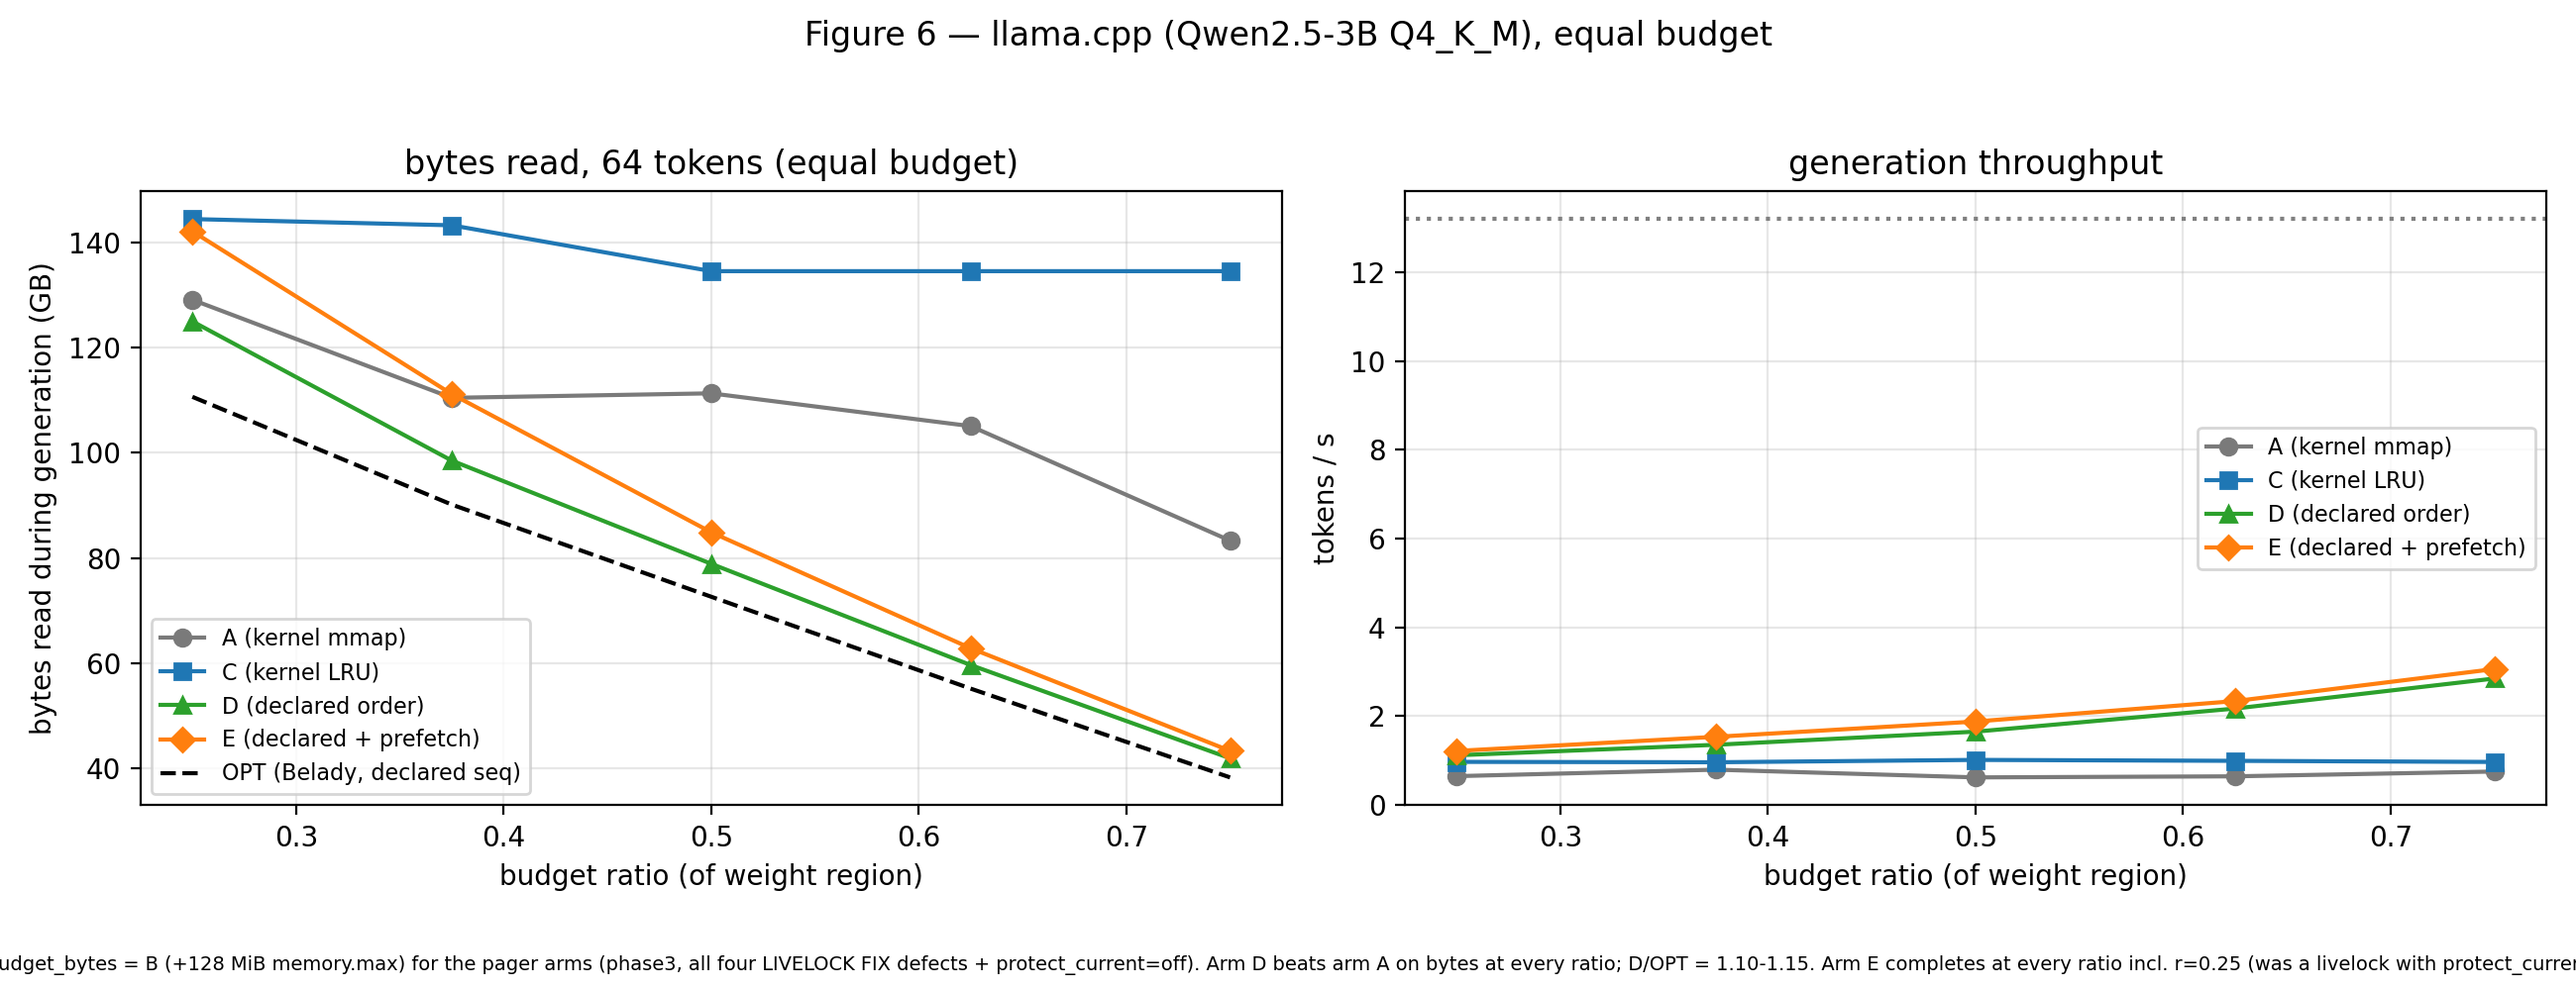
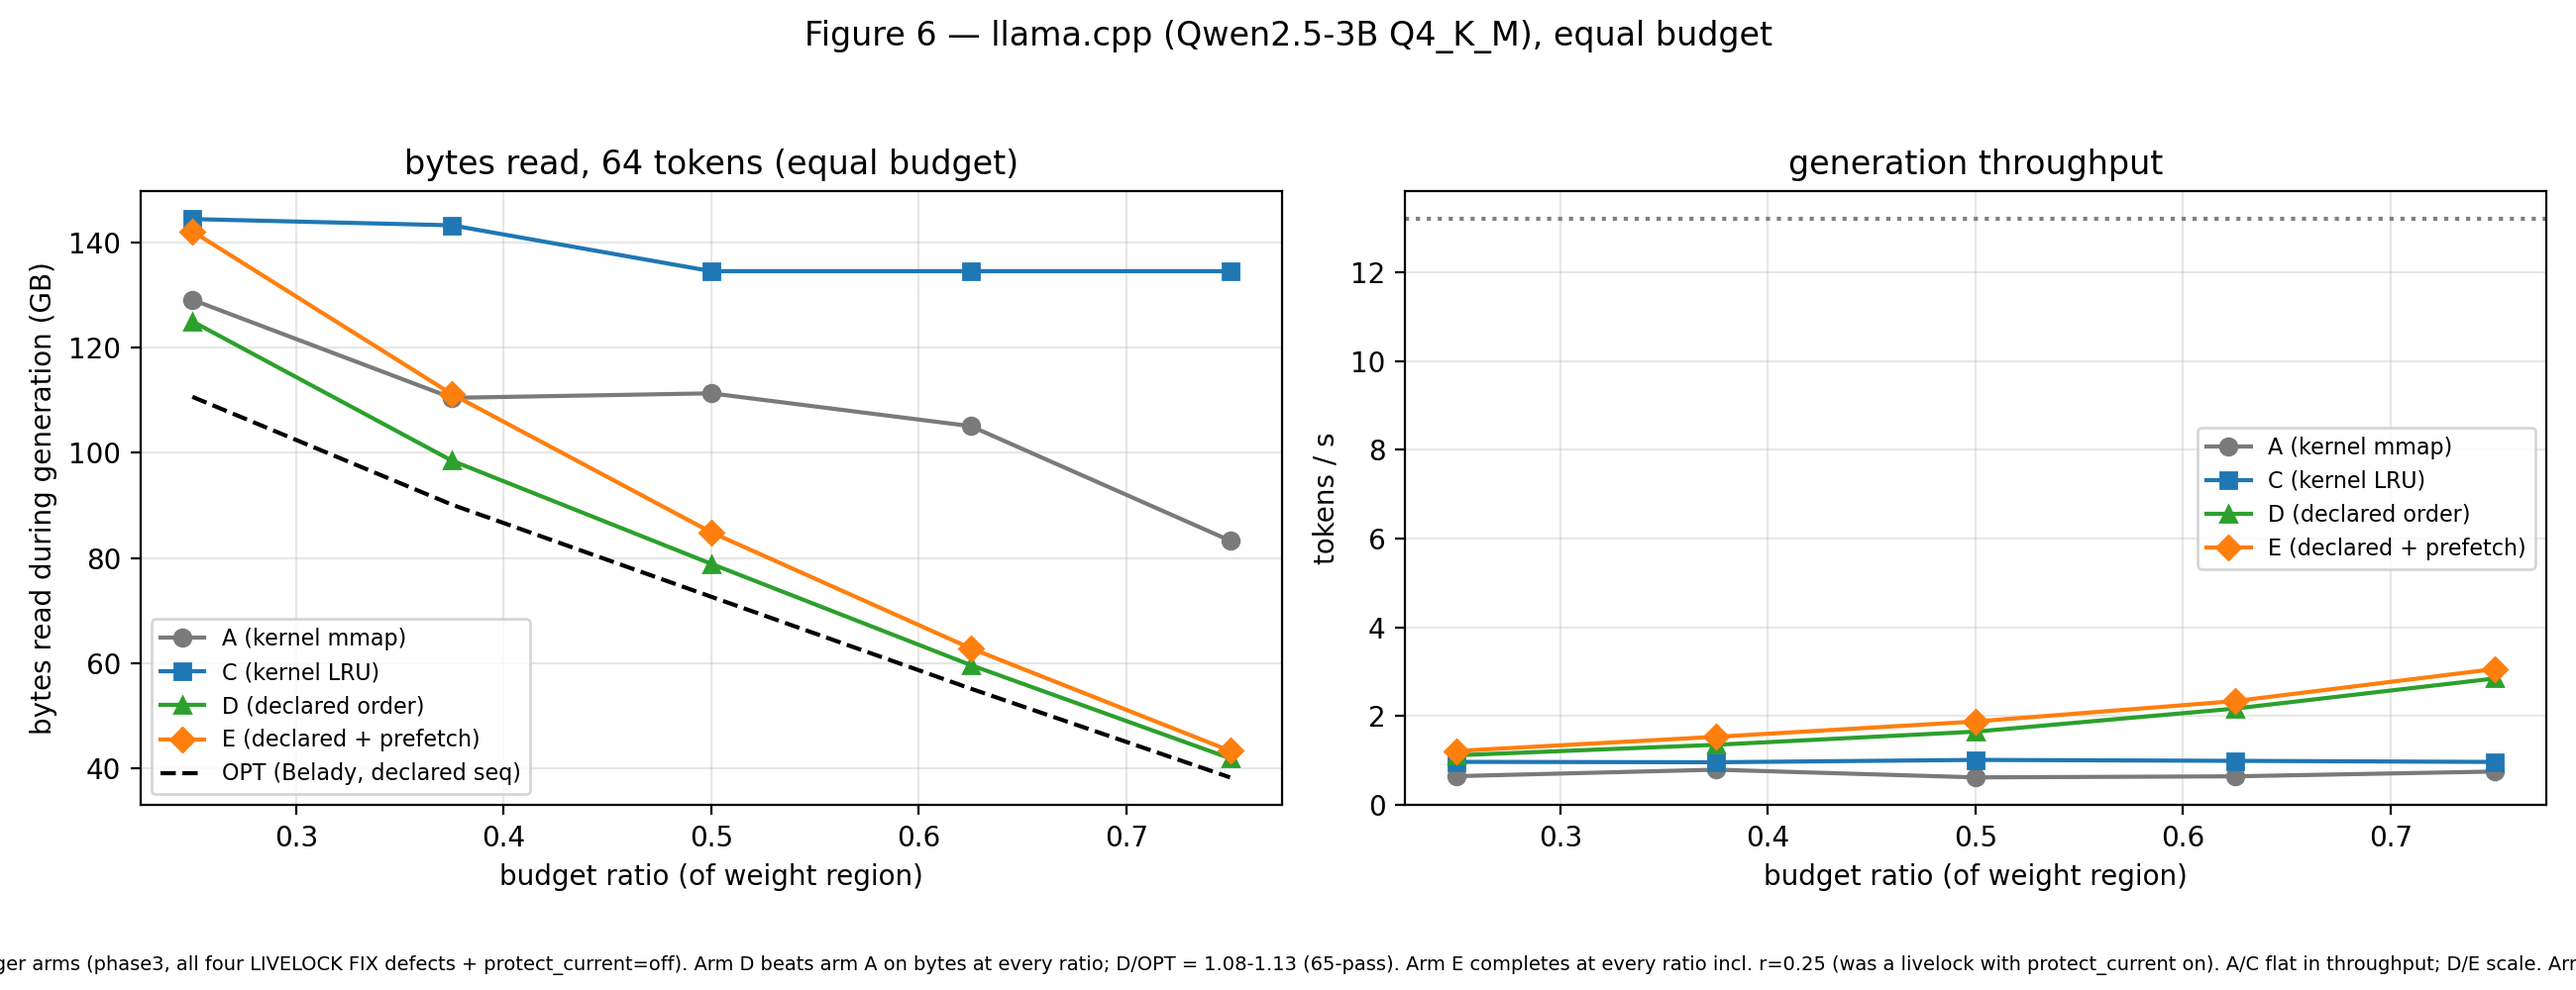
LIVELOCK FIX Phase 5: verification + summary
Figure 6 PNG caption said D/OPT 1.10-1.15 (written from the 64-pass analyze
output before the 65-pass correction); fixed to 1.08-1.13 and regenerated.
Figure 7 caption + Claim 9 caveat + WRITEUP point 8 now state that arm A
(Phase 1) and arms C/D/E (Phase 3) are different runs on a ~faster session,
so the A-vs-C absolute throughput gap is not like-for-like -- only each
arm's flatness is robust.

Verification: T-1..T-7 PASS (eager reconcile via test_correctness.c
reconcile_interval=1); test_policy PASS (both signal modes); real-model
correctness gate byte-identical with the flipped default; WP1 1.2
learned-policy gate PASS byte-identical 3/3. Citation scan clean.

LIVELOCK_SUMMARY.md: the four defects, what moved, what did not, gates.

Claude-Session: https://claude.ai/code/session_01UoPcjDcSS3Dg4NQrDHTy7c

Changed region(s): [[0.0, 0.961, 1.0, 0.992]]

diff --git a/results/overnight/make_wp3.py b/results/overnight/make_wp3.py
@@ -592,8 +592,9 @@ def figure6_final():
     fig.suptitle('Figure 6 — llama.cpp (Qwen2.5-3B Q4_K_M), equal budget', fontsize=12)
     fig.text(0.5, 0.02, 'memory.max = B for arm A (phase1); budget_bytes = B (+128 MiB memory.max) for the pager '
              'arms (phase3, all four LIVELOCK FIX defects + protect_current=off). Arm D beats arm A on bytes at '
-             'every ratio; D/OPT = 1.10-1.15. Arm E completes at every ratio incl. r=0.25 (was a livelock with '
-             'protect_current on). A/C flat in throughput; D/E scale.', ha='center', fontsize=7)
+             'every ratio; D/OPT = 1.08-1.13 (65-pass). Arm E completes at every ratio incl. r=0.25 (was a livelock '
+             'with protect_current on). A/C flat in throughput; D/E scale. Arm A is a different (Phase 1) run than '
+             'C/D/E; compare shapes, not A-vs-C absolute throughput.', ha='center', fontsize=7)
     fig.tight_layout(rect=[0,0.07,1,0.94])
     fig.savefig(f'{OUT}/figure6_llamacpp.png', dpi=200); plt.close(fig)
     with open(f'{OUT}/figure6_llamacpp.csv','w',newline='') as f:
@@ -628,9 +629,9 @@ def figure7():
                  fontsize=11)
     ax.grid(alpha=0.3); ax.legend(fontsize=9)
     fig.text(0.5, 0.01, 'Qwen2.5-3B Q4_K_M, CPU, 64 tokens, n=3, equal budget. Arm A: phase1; arms C/D/E: '
-             'phase3 (LIVELOCK FIX, protect_current=off). Arms A and C are horizontal (0.6-1.0 t/s at every '
-             'budget); arm D rises 1.12 -> 2.85 t/s (2.5x). Arm A absolute values are reclaim-noisy; the flat '
-             'trend is the robust result.', ha='center', fontsize=7)
+             'phase3 (LIVELOCK FIX, protect_current=off) -- a different run, faster machine, so the A-vs-C '
+             'absolute gap is not like-for-like; each arm\'s flatness is the robust part. Arms A and C horizontal '
+             '(~0.7 / ~1.0 t/s); arm D rises 1.12 -> 2.85 t/s (2.5x).', ha='center', fontsize=7)
     fig.tight_layout(rect=[0,0.06,1,0.96])
     fig.savefig(f'{OUT}/figure7_throughput_scaling.png', dpi=200); plt.close(fig)
     with open(f'{OUT}/figure7_throughput_scaling.csv','w',newline='') as f:

diff --git a/results/livelock/LIVELOCK_SUMMARY.md b/results/livelock/LIVELOCK_SUMMARY.md
@@ -1,0 +1,88 @@
+# LIVELOCK FIX — session summary
+
+**Premise.** A source review found three defects, one in the next-use distance
+function. The spec fixed them and re-measured everything they touch. During
+Phase 0 a fourth defect surfaced (a silent node-name mismatch); the user
+authorised a fourth fix and a guarding assertion.
+
+## The four defects and their fixes
+
+| # | Where | Defect | Fix |
+|---|---|---|---|
+| 1 | `policy.c:lo_declared_dist()` | scanned `for d = 1..seq_len`, so the actively-consumed chunk `seq[pos]` matched only at `d == seq_len` — max distance, top eviction victim | scan origin is **signal-mode-aware**: `d` starts at **0** on the pre-consumption path (`seq[pos]` → distance 0), stays at **1** on the post-consumption path (byte-for-byte the old loop). `policy_set_signal_mode()`; unit tests for both modes |
+| 2 | `wp2_gen.cpp:eval_cb()` | acted on the **post**-compute callback pass, so the declared cursor advanced only after layer N's weights were already read — lagged the real access by a full layer | act on the **pre**-compute pass (`if (!ask) return true;`) |
+| 3 | `prefetch_pool.c` | a declined prefetch was immediately re-enqueued and re-declined — a busy loop (`stat_prefetch_declined` → 2104 while `stat_prefetches` froze at 77) | on decline, `chunk_t.decline_until_ns = now + 100 ms`; `prefetch_pool_top_up` skips candidates still in backoff |
+| 4 | `wp2_gen.cpp:eval_cb()` | matched the graph node `"inp_embd"`; llama.cpp names the embedding output `"embd"`, so `token_embd` (chunk 2, 175 MiB) received **zero** consumption signals | match `"embd"`; `residctl_llama.c:notify_audit_maybe()` aborts at startup if any workload-declared chunk gets 0 signals in the first 2 decode passes |
+
+## What the fixes changed
+
+- **The arm-E "livelock" is fixed** — not avoided. It had been mislabelled three
+  times (WP2: "over-constrained budget"; final Phase 3: "hard deadlock / orphaned
+  `FETCHING` slot"; cleanup: "a livelock from two individually-correct
+  mechanisms, mitigate by config"). The real cause was Defect 1 ranking the
+  in-use chunk as coldest, fed by Defect 2's lagging cursor with Defect 4's
+  unsignalled `token_embd`. **Phase 3b**: the exact prior-livelock config
+  (`--prefetch-retention pinned --protect-current on`, r ∈ {0.25, 0.375}) now
+  completes in **~44–54 s**, both reps — it previously ran `rc=124` for ~6 h at
+  ~90× I/O amplification.
+- **`stat_prefetch_declined` 2104 → 0–20**; `stat_fetching_timeout = 0` on all
+  45 Phase 3 runs.
+- **`residctl_llama.c` `protect_current` default flips to `off`** (spec
+  amendment A-14). The sole reason it was `on` (cleanup: "off ⇒ arm D +67–78 %")
+  was a Defect-2/Defect-4 artifact. **Phase 3c**: with the fixes, `protect_current`
+  on vs off moves arm D by ≤ 1.8 % at every ratio. Both paths now default `off`.
+
+## What did NOT change
+
+- **The synthetic path** (`replay_main`, `--consumption-signal all-threads`):
+  every `layer_order_declared` cell byte-identical to `results/final/phase2_*.csv`
+  (Phase 2). The post-mode `d0 = 1` origin is a no-op refactor.
+- **Arm D byte efficiency on the real model**: 125.0 / 98.5 / 78.9 / 59.7 /
+  41.9 GB — within noise of the pre-fix protect-on baseline. The fixes' value is
+  the arm-E livelock fix, the declined-prefetch collapse, and the
+  consumption-signal correctness audit — not arm-D bytes.
+- **`layer_order_learned`, `lru`, `select_victim`, `INT64_MAX` semantics** —
+  untouched (spec constraint). WP1 §1.2 gate: `layer_order_learned` reproduces
+  Campaign 12 Phase D exactly (57 / 49 / 7,650,410,496, 3/3 reps).
+
+## Numbers that moved (65-pass OPT, decimal GB)
+
+| quantity | was | now |
+|---|---|---|
+| arm D real-model bytes, r=0.25…0.75 | 126.1 / 98.4 / 79.3 / 60.6 / 43.4 | 125.0 / 98.5 / 78.9 / 59.7 / 41.9 |
+| D/OPT, real model | 1.09–1.14 | **1.08–1.13** |
+| D/A, real model | 0.98 / 0.89 / 0.71 / 0.58 / 0.52 | 0.97 / 0.89 / 0.71 / 0.57 / 0.50 |
+| arm D throughput | 0.91 → 1.95 t/s (2.1×) | **1.12 → 2.85 t/s (2.5×, monotone)** |
+| arm C throughput | ~0.8 t/s | ~1.0 t/s (byte-identical thrashing; machine variance) |
+| arm E at r ≤ 0.375 | livelocks (protect on) / +37–43 % bytes (protect off) | completes; +13–14 % bytes (latency win) |
+
+## Verification (Phase 5)
+
+- **T-1..T-7** (eager reconcile — `test_correctness.c` hardcodes
+  `reconcile_interval = 1`, A-3): PASS, `mismatches = 0`, after the code changes
+  and after the `protect_current` default flip.
+- **`test_policy`**: PASS — declared next-use vs naive Belady scan agrees in
+  both signal modes; protect-on/off both modes ok.
+- **Real-model correctness gate**: mmap vs residctl, 32 tokens, byte-identical —
+  both with `--protect-current off` explicit (Phase 3) and with the flipped
+  default (Phase 4 re-gate).
+- **WP1 §1.2 learned-policy gate**: PASS, byte-identical, 3/3 reps.
+- **Citations**: `WRITEUP_PACKAGE.md` / `CLAIMS.md` / `PROJECT_STATE.md` file
+  references resolve (spike-report refs live in `/root/spike/`, as before).
+
+## Commits
+
+`01a0ca1`, `cfa4907` (Phase 0) · `bb20f34` (Phase 0b) · `cfacb64` (Phase 1) ·
+`ddffaad` (Phase 2) · `96b1c28` (Phase 3) · `c6f4e80` (Phase 4) · Phase 5 (this
+summary). All on `origin/main`, `github.com/GarvitAggarwal178/residctl`.
+
+## Artifacts
+
+- `results/livelock/phase0_cursor_diagnostic.md`, `BLOCKERS.md`
+- `results/livelock/phase1_fixes.md`
+- `results/livelock/phase2_synthetic.md`
+- `results/livelock/phase3_real_model.md` (+ `.csv`, `phase3b_arm_e_protect_on.csv`,
+  `phase3c_arm_d_protect_on.csv`, policy traces, correctness gate)
+- `results/livelock/phase4_propagation.md`
+- `docs/design-history.md` — consumption-signal timing decision + the road not taken
+- Spec amendment **A-14** in `PROJECT_STATE.md` §5

diff --git a/results/overnight/CLAIMS.md b/results/overnight/CLAIMS.md
@@ -364,10 +364,14 @@ Strength: **strong.** Deterministic direction, five ratios, clean separation
 between the kernel arms (flat) and the informed arms (rising).
 
 Caveats: WSL2-only, one 3B dense model, CPU-only. Arm A's absolute tokens/s is
-reclaim-noisy (run-to-run ~2×); the flatness is the robust part. Arm D now rises
-monotonically across all five ratios (the Phase 1 r=0.5→0.625 dip did not
-reproduce in the Phase 3 re-run); the r=0.25 vs r=0.75 endpoints are 2.5× apart
-and clean.
+reclaim-noisy (run-to-run ~2×); the flatness is the robust part. **Arm A is a
+different run (Phase 1) than arms C/D/E (Phase 3), on a session that was ~20 %
+faster overall** — that is why arm C reads ~1.0 t/s here vs ~0.8 in Phase 1
+(byte-identical thrashing). The A-vs-C *absolute* gap is therefore not a
+like-for-like comparison; what is robust is that **each** kernel arm is flat
+across a 3× budget range while D and E rise. Arm D now rises monotonically
+across all five ratios (the Phase 1 r=0.5→0.625 dip did not reproduce); the
+r=0.25 vs r=0.75 endpoints are 2.5× apart and clean.
 
 Superseded prior claims: the Phase 1 arm-D throughput row
 0.91 / 1.20 / 1.57 / 1.51 / 1.95 t/s (2.1×, `protect_current` on) — the LIVELOCK

diff --git a/results/livelock/phase4_propagation.md b/results/livelock/phase4_propagation.md
@@ -11,10 +11,10 @@ downstream artifact.
 (the cleanup-session "+67–78 % for protect-off" is a Defect-2/Defect-4 artifact;
 Phase 3c: on vs off ≤ 1.8 %). Rebuilt `wp2_gen`.
 
-**Flip smoke** (`$CLAUDE_JOB_DIR/tmp/p4_smoke.sh`): arm D, r=0.5, config with
-**no** `protect_current` key → uses the new default. `pager_bytes_fetched =
-78 895 448 064` — byte-identical to Phase 3's explicit `protect_current=off`
-run. Startup audit: "all 40 declared chunks signalled within 2 passes". PASS.
+**Flip smoke**: arm D, r=0.5, config with **no** `protect_current` key → uses
+the new default. `pager_bytes_fetched = 78 895 448 064` — byte-identical to
+Phase 3's explicit `protect_current=off` run. Startup audit: "all 40 declared
+chunks signalled within 2 passes". PASS.
 
 **Regression gates** (post-flip): `test_policy` PASS (both signal modes);
 T-1..T-5 (`run_correctness_harness.sh`) PASS; T-6/T-7 (`run_t6_t7.sh`) PASS,

diff --git a/results/final/WRITEUP_PACKAGE.md b/results/final/WRITEUP_PACKAGE.md
@@ -64,9 +64,11 @@ One line per result. Start from the problem, end at the payoff.
    **fixed** — arm E now completes at every ratio in either setting (Claim 6;
    Claim 10).
 8. **The payoff is throughput that scales with memory.** Give the kernel more
-   budget and tokens/s does not move (arm A ~0.7, arm C ~1.0 t/s across a 3×
-   budget range); give the app-authoritative pager more budget and tokens/s
-   rises 2.5× (Claim 9; Figure 7). *This is the closing figure.*
+   budget and tokens/s does not move — each kernel arm is flat across a 3×
+   budget range (arm A ~0.7, arm C ~1.0 t/s; A and C are from different sessions
+   so their absolute gap is not like-for-like — the flatness of each is the
+   point). Give the app-authoritative pager more budget and tokens/s rises 2.5×
+   (Claim 9; Figure 7). *This is the closing figure.*
 
 ---
 
